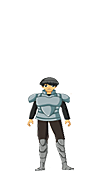
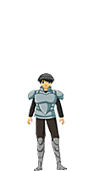
fixed scrolling issue - changed canvas height

Changed region(s): [[0.2673, 0.4094, 0.7426, 1.0]]

diff --git a/js/engine.js b/js/engine.js
@@ -26,7 +26,7 @@ var Engine = (function(global) {
         lastTime;
 
     canvas.width = 1010; //505
-    canvas.height = 606;
+    canvas.height = 565; //606
     doc.body.appendChild(canvas);
 
     /* This function serves as the kickoff point for the game loop itself
